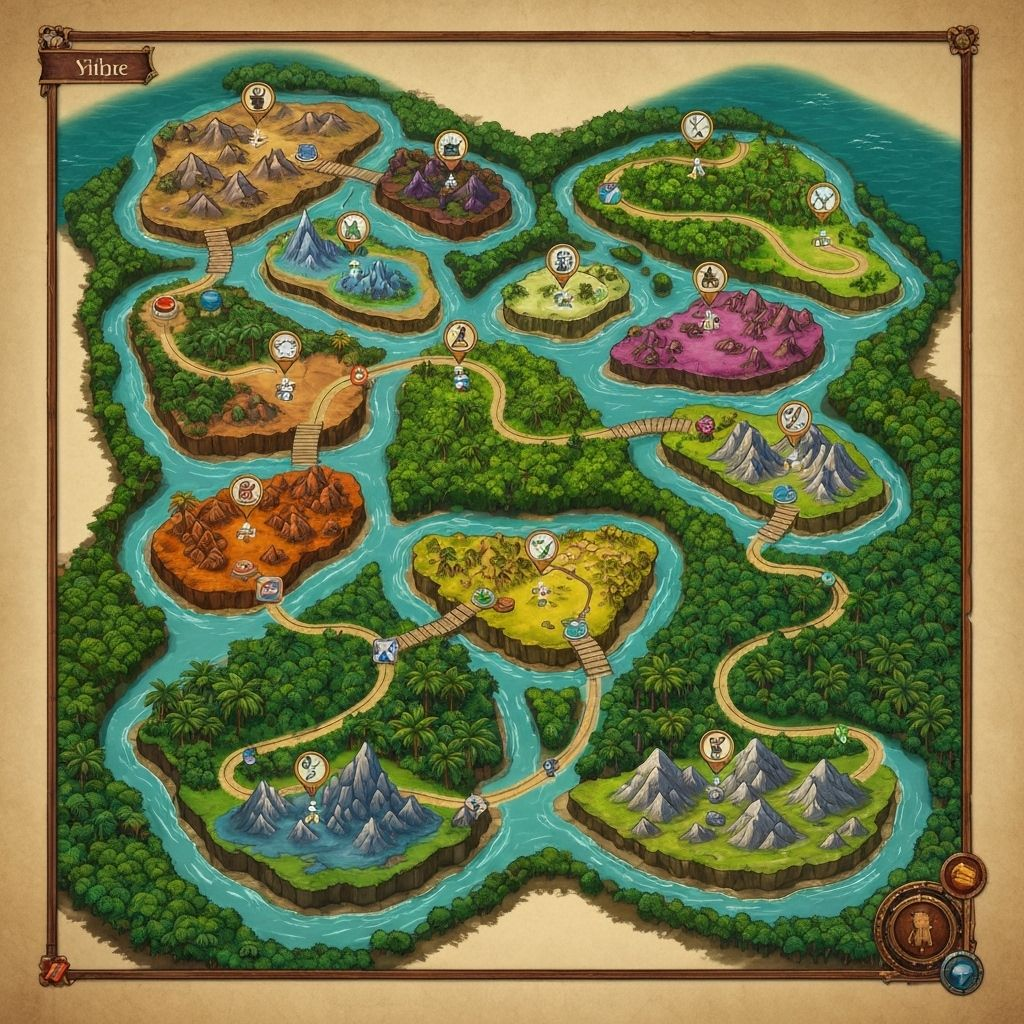
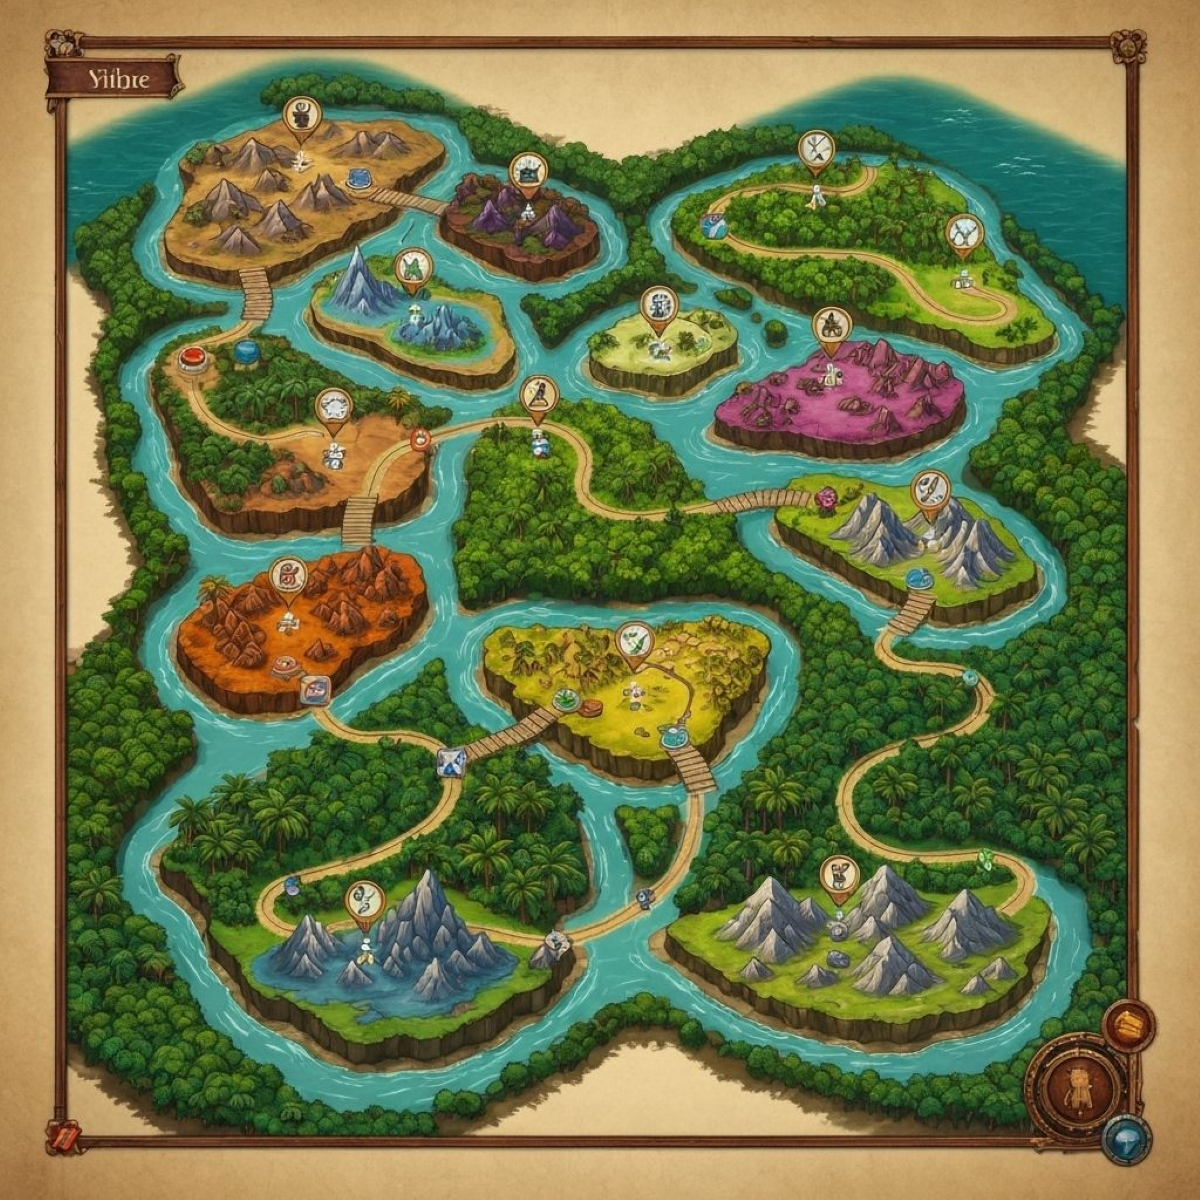
refactor

diff --git a/components/game-board.tsx b/components/game-board.tsx
@@ -31,7 +31,7 @@ export default function GameBoard(props: GameBoardProps) {
   const [lowAnimations, setLowAnimations] = useState(false)
 
   const MAP_WIDTH = 1024
-  const MAP_HEIGHT = 1200
+  const MAP_HEIGHT = 1024
 
   const [playerDirection, setPlayerDirection] = useState<PlayerDirection>('south')
   const [isMoving, setIsMoving] = useState(false)
